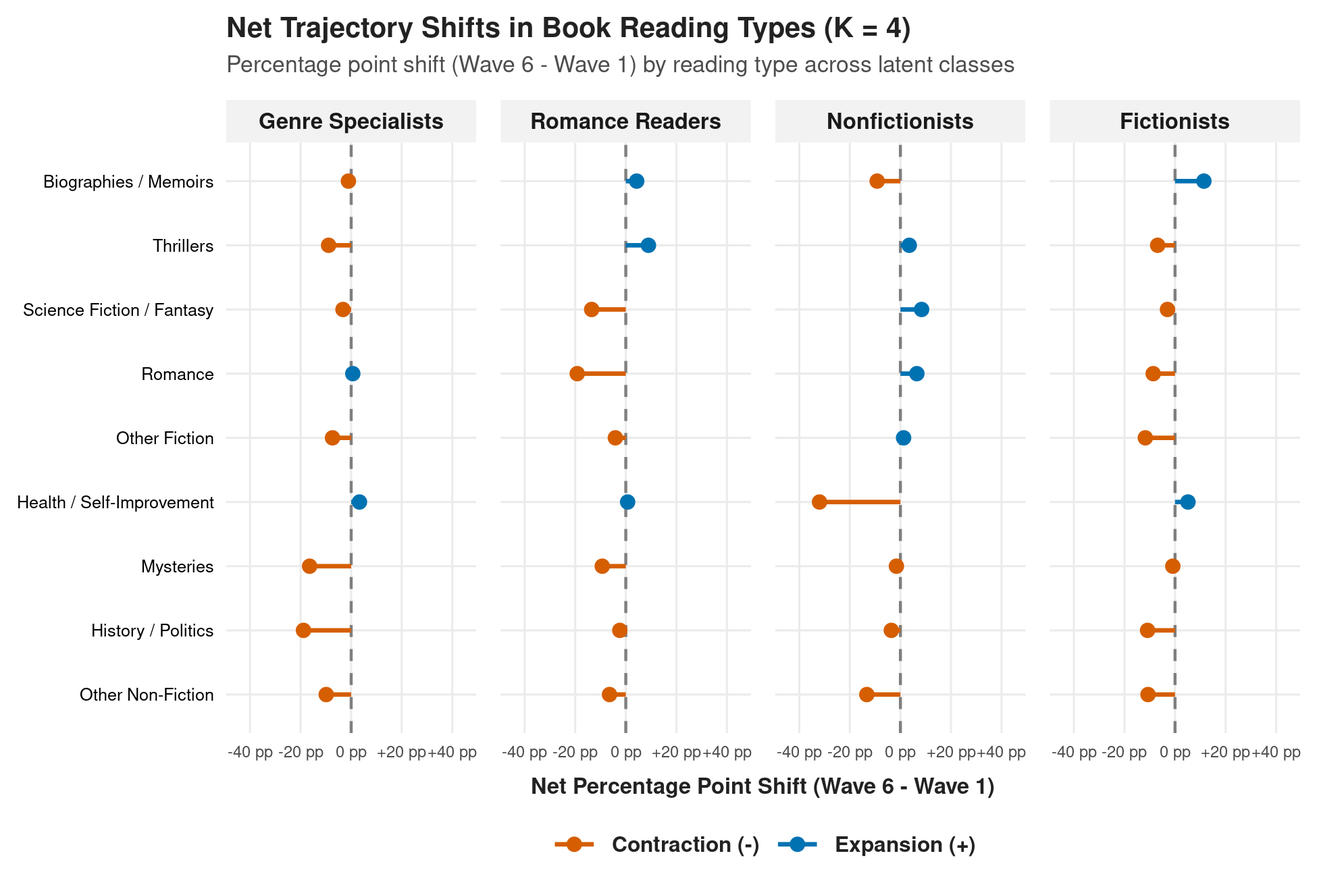
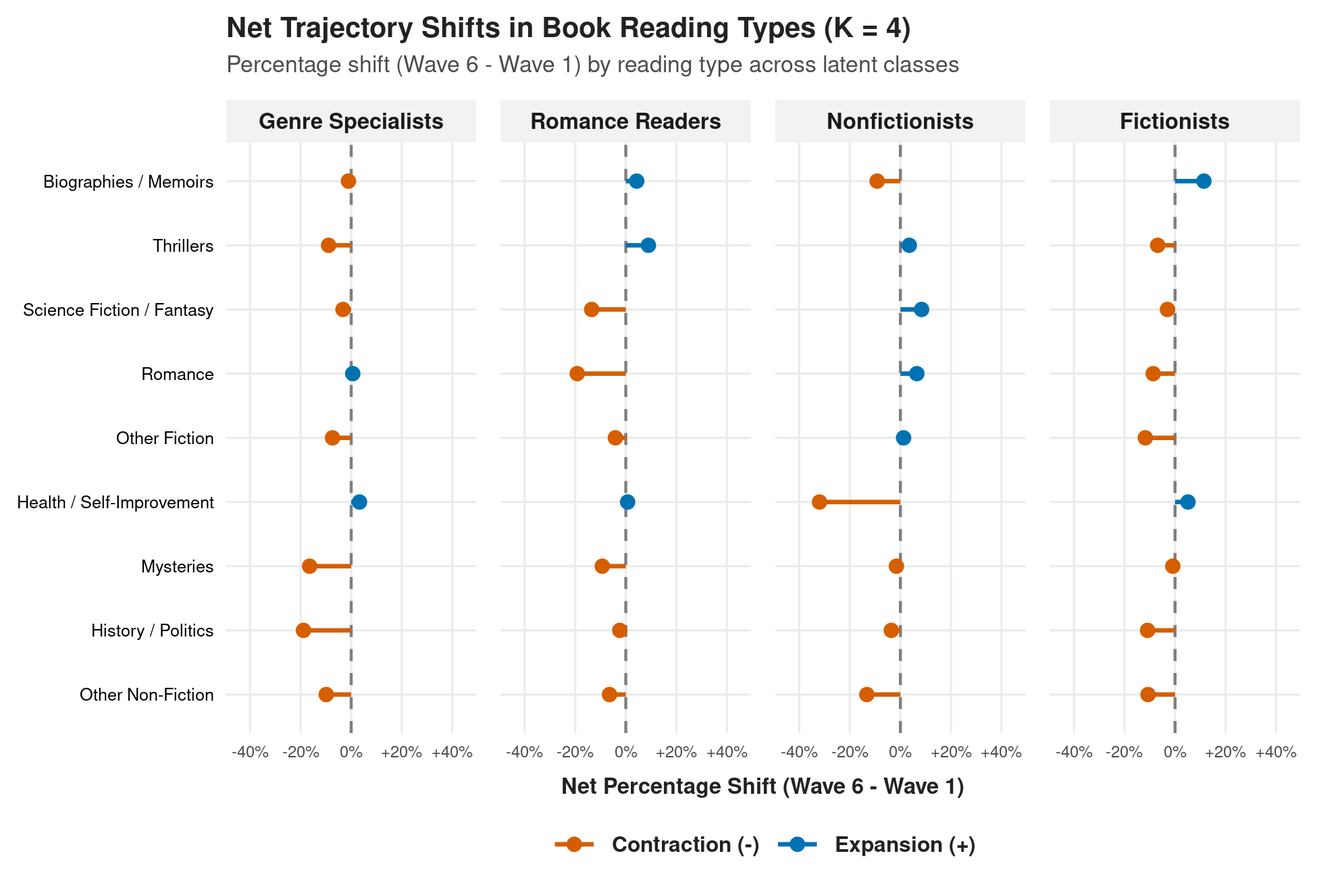
style: enforce hardcoded prohibition on demonstrate and purge pp for percentages

diff --git a/manuscript.tex b/manuscript.tex
@@ -32,7 +32,7 @@
 \maketitle
 
 \begin{abstract}
-Does higher education homogenize cultural tastes, or does it preserve and specialize pre-existing aesthetic boundaries? While cross-sectional scholarship links scholastic capital to cultural omnivorousness, how individuals traverse distinct developmental pathways across specific cultural practices during college remains underexplored. Using longitudinal panel data from the \textit{NetSense} study, we investigate taste trajectories across two cultural domains: leisure book reading (9 genres across six semesters) and musical genre preferences (10 genres across six semesters) ($N = 201$, $1,006$ person-wave observations). We estimate multivariate binary latent class growth models in \texttt{flexmix} parameterized via quadratic polynomial growth curves with endogenous multinomial concomitants. Across both spheres, four developmental pathways emerge: in leisure reading, students sort into Genre Specialists ($37.3\%$), Romance Readers ($23.4\%$), Fictionists ($22.9\%$), and Nonfictionists ($16.4\%$); in musical taste, students sort into Mainstreamers ($30.8\%$), Modern Rockers ($26.4\%$), Omnivores ($24.4\%$), and Classic Rockers ($18.4\%$). Trajectory analyses reveal marked domain asymmetry: leisure reading is characterized by specialization and winnowing over time, whereas musical taste features substantial aesthetic expansion, with Omnivores monotonically expanding into country, folk, and Broadway show tunes while Mainstreamers become more univorous. Endogenous concomitant models demonstrate that sorting into these pathways is driven by pre-collegiate cultural capital (prior arts event attendance and personal music library size), scholastic capital (high school GPA and AP coursework), secondary schooling habitus (Catholic parochial high school attendance), and gender identity, whereas parental household income and education are statistically null across domains. Finally, multilevel growth models show that baseline attributes act almost exclusively as between-class sorting gates (the extensive margin) rather than moderating trajectory slopes within established pathways. Collegiate cultural stratification thus reflects behavioral path-dependency and accumulated secondary habitus rather than upstream family wealth or spontaneous campus conversions.
+Does higher education homogenize cultural tastes, or does it preserve and specialize pre-existing aesthetic boundaries? While cross-sectional scholarship links scholastic capital to cultural omnivorousness, how individuals traverse distinct developmental pathways across specific cultural practices during college remains underexplored. Using longitudinal panel data from the \textit{NetSense} study, we investigate taste trajectories across two cultural domains: leisure book reading (9 genres across six semesters) and musical genre preferences (10 genres across six semesters) ($N = 201$, $1,006$ person-wave observations). We estimate multivariate binary latent class growth models in \texttt{flexmix} parameterized via quadratic polynomial growth curves with endogenous multinomial concomitants. Across both spheres, four developmental pathways emerge: in leisure reading, students sort into Genre Specialists ($37.3\%$), Romance Readers ($23.4\%$), Fictionists ($22.9\%$), and Nonfictionists ($16.4\%$); in musical taste, students sort into Mainstreamers ($30.8\%$), Modern Rockers ($26.4\%$), Omnivores ($24.4\%$), and Classic Rockers ($18.4\%$). Trajectory analyses reveal marked domain asymmetry: leisure reading is characterized by specialization and winnowing over time, whereas musical taste features substantial aesthetic expansion, with Omnivores monotonically expanding into country, folk, and Broadway show tunes while Mainstreamers become more univorous. Endogenous concomitant models show that sorting into these pathways is driven by pre-collegiate cultural capital (prior arts event attendance and personal music library size), scholastic capital (high school GPA and AP coursework), secondary schooling habitus (Catholic parochial high school attendance), and gender identity, whereas parental household income and education are statistically null across domains. Finally, multilevel growth models show that baseline attributes act almost exclusively as between-class sorting gates (the extensive margin) rather than moderating trajectory slopes within established pathways. Collegiate cultural stratification thus reflects behavioral path-dependency and accumulated secondary habitus rather than upstream family wealth or spontaneous campus conversions.
 
 \vspace{0.8em}
 \noindent\textbf{Keywords:} Cultural Taste, Latent Class Growth Analysis, Cultural Omnivorousness, Cultural Capital, Higher Education, Emerging Adulthood, Finite Mixture Models
@@ -220,7 +220,7 @@ Figure~\ref{fig:books} illustrates the model-implied reading trajectories across
 \label{fig:books}
 \end{figure}
 
-The item-specific reading trajectories show that collegiate reading is structured by distinct aesthetic genre specializations rather than an undifferentiated continuum of reading volume. The first class, ``Genre Specialists'' ($n = 75, 37.3\%$), represents the modal plurality: its members concentrate heavily in speculative and narrative fiction, including science fiction and fantasy, other fiction, and thrillers, while completely avoiding romance fiction. The second group, ``Romance Readers'' ($n = 47, 23.4\%$), shows elevated engagement with romance and other general fiction, moderate engagement with mystery, but low engagement with history or science fiction. The third group, ``Nonfictionists'' ($n = 33, 16.4\%$), exhibits a dedicated analytical non-fiction profile: its members lead in reading history and politics, biographies and memoirs, and other non-fiction, while reporting low engagement with romance and thrillers. Finally, ``Fictionists'' ($n = 46, 22.9\%$) reads avidly across all fiction categories: science fiction, thrillers, mysteries, and general fiction, alongside moderate biography engagement. Across all four classes, reading trajectories remain remarkably stable across all six semesters, demonstrating that literary orientations are established early and persist throughout college.
+The item-specific reading trajectories show that collegiate reading is structured by distinct aesthetic genre specializations rather than an undifferentiated continuum of reading volume. The first class, ``Genre Specialists'' ($n = 75, 37.3\%$), represents the modal plurality: its members concentrate heavily in speculative and narrative fiction, including science fiction and fantasy, other fiction, and thrillers, while completely avoiding romance fiction. The second group, ``Romance Readers'' ($n = 47, 23.4\%$), shows elevated engagement with romance and other general fiction, moderate engagement with mystery, but low engagement with history or science fiction. The third group, ``Nonfictionists'' ($n = 33, 16.4\%$), exhibits a dedicated analytical non-fiction profile: its members lead in reading history and politics, biographies and memoirs, and other non-fiction, while reporting low engagement with romance and thrillers. Finally, ``Fictionists'' ($n = 46, 22.9\%$) reads avidly across all fiction categories: science fiction, thrillers, mysteries, and general fiction, alongside moderate biography engagement. Across all four classes, reading trajectories remain remarkably stable across all six semesters, showing that literary orientations are established early and persist throughout college.
 
 \subsection{Musical Taste Preferences}
 
@@ -237,7 +237,7 @@ Examining the item-level music trajectories shows how genre boundaries define di
 
 \subsection{Net Trajectory Shifts Within Latent Classes}
 
-To evaluate how participation changes across the entire collegiate life course within each latent class, Figures~\ref{fig:shifts_books} and~\ref{fig:shifts_music} display the net percentage point shifts ($\Delta = P(W_6) - P(W_1)$) for Book Reading Types and Music Genre Preferences, respectively, across all four latent classes. Splitting these developmental trajectories into domain-specific figures allows each latent class to be displayed with its distinct sociological typology without confounding labels across domains.
+To evaluate how participation changes across the entire collegiate life course within each latent class, Figures~\ref{fig:shifts_books} and~\ref{fig:shifts_music} display the net percentage shifts ($\Delta = P(W_6) - P(W_1)$) for Book Reading Types and Music Genre Preferences, respectively, across all four latent classes. Splitting these developmental trajectories into domain-specific figures allows each latent class to be displayed with its distinct sociological typology without confounding labels across domains.
 
 \begin{figure}[htbp]
 \centering
@@ -253,9 +253,9 @@ To evaluate how participation changes across the entire collegiate life course w
 \label{fig:shifts_music}
 \end{figure}
 
-Examining net trajectory shifts reveals that collegiate cultural change is characterized by targeted reallocation within existing repertoires rather than wholesale aesthetic drift. In books (Figure~\ref{fig:shifts_books}), Romance Readers expand general fiction (+11.2 percentage points) and biography reading (+6.6 pp) while pruning speculative fiction (-14.4 pp) and romance (-14.1 pp). In contrast, Genre Specialists maintain stable speculative and biography reading while pruning historical and political non-fiction (-14.4 pp), and Fictionists expand thrillers (+6.9 pp) while radically contracting history (-23.7 pp). Overall, we can see that the dynamic process of taste change in book reading is largely one of \textit{specialization}; members of all latent classes \textit{lose} tastes across the board, and when tastes are gained, the trends are slight.
+Examining net trajectory shifts reveals that collegiate cultural change is characterized by targeted reallocation within existing repertoires rather than wholesale aesthetic drift. In books (Figure~\ref{fig:shifts_books}), Romance Readers expand general fiction (+11.2\%) and biography reading (+6.6\%) while pruning speculative fiction (-14.4\%) and romance (-14.1\%). In contrast, Genre Specialists maintain stable speculative and biography reading while pruning historical and political non-fiction (-14.4\%), and Fictionists expand thrillers (+6.9\%) while contracting history (-23.7\%). Overall, we can see that the dynamic process of taste change in book reading is largely one of \textit{specialization}; members of all latent classes \textit{lose} tastes across the board, and when tastes are gained, the trends are slight.
 
-When it comes to musical taste (Figure~\ref{fig:shifts_music}), Omnivores significantly expand country music adoption (+24.0 percentage points), folk music (+11.8 pp), and Broadway show tunes (+10.6 pp). Similarly, Classic Rockers expand Broadway (+24.7 pp), folk (+8.9 pp), and classical music (+7.9 pp) while contracting rock/heavy metal (-16.8 pp) and dance music (-8.6 pp). Meanwhile, Modern Rockers expand dance music (+23.4 pp) and country (+16.1 pp), while Mainstreamers contract across multiple genres, most notably dance music (-26.1 pp) and classic rock (-22.5 pp). Overall, we can see that music is distinct from literature in that, for every class except mainstreamers, it features almost as many tastes gained over time as tastes lost. Musical omnivores \textit{become} omnivores--or reinforce their status as such---by gaining tastes in almost all musical genres except for classic rock, heavy metal, and easy listening. Mainstreamer ``univores'' on the other hand \textit{become} univores by following the reverse pathway, dropping tastes in most genres except for folk. These two taste trajectories thus display positive and negative reinforcement dynamics. 
+When it comes to musical taste (Figure~\ref{fig:shifts_music}), Omnivores expand country music adoption (+24.0\%), folk music (+11.8\%), and Broadway show tunes (+10.6\%). Similarly, Classic Rockers expand Broadway (+24.7\%), folk (+8.9\%), and classical music (+7.9\%) while contracting rock/heavy metal (-16.8\%) and dance music (-8.6\%). Meanwhile, Modern Rockers expand dance music (+23.4\%) and country (+16.1\%), while Mainstreamers contract across multiple genres, most notably dance music (-26.1\%) and classic rock (-22.5\%). Overall, we can see that music is distinct from literature in that, for every class except mainstreamers, it features almost as many tastes gained over time as tastes lost. Musical omnivores \textit{become} omnivores--or reinforce their status as such---by gaining tastes in almost all musical genres except for classic rock, heavy metal, and easy listening. Mainstreamer ``univores'' on the other hand \textit{become} univores by following the reverse pathway, dropping tastes in most genres except for folk. These two taste trajectories thus display positive and negative reinforcement dynamics. 
 
 \section{Predicting Trajectory Class Membership}
 
@@ -332,13 +332,13 @@ This study implemented a finite mixture modeling framework parameterized via qua
 
 First, item-level trajectory modeling shows that collegiate cultural life does not converge toward a homogeneous campus taste culture, nor does it undergo erratic aesthetic drift. Instead, undergraduates divide into four distinct, persistent developmental pathways in each expressive sphere. In leisure reading, students sort into Genre Specialists ($37.3\%$), who concentrate heavily in speculative fiction, other fiction, and thrillers while avoiding romance; Romance Readers ($23.4\%$), who combine romance and general fiction; Fictionists ($22.9\%$), who read broadly across all fiction genres; and Nonfictionists ($16.4\%$), who focus on biography, history, and politics. In musical taste, students sort into Mainstreamers ($30.8\%$), who focus strictly on commercial radio hits; Modern Rockers ($26.4\%$), who combine rock and heavy metal with contemporary hip-hop and dance music; Omnivores ($24.4\%$), who maintain high preference probabilities across all ten genres simultaneously; and Classic Rockers ($18.4\%$), who pair classic rock with traditional highbrow forms such as jazz, classical music, and Broadway show tunes. Parameterizing trajectories through linear and quadratic terms shows that these taste orientations evolve through smooth, gradual adjustments rather than abrupt shocks or high-frequency churn.
 
-Second, our analysis uncovers a pronounced domain asymmetry in how cultural repertoires evolve across the college career. In leisure book reading, taste change is overwhelmingly characterized by specialization and winnowing: members of all four latent classes lose tastes across the collegiate life course, and when tastes are gained, the increases are slight and highly targeted. In contrast, musical taste trajectories feature substantial aesthetic expansion alongside selective contraction. For every musical class except Mainstreamers, students gain almost as many musical tastes as they shed. Most notably, Omnivores reinforce their expansive profile over time by monotonically adopting country music (+24.0 percentage points), folk music (+11.8 pp), and Broadway show tunes (+10.6 pp), while Mainstreamers become more univorous by dropping classic rock (-22.5 pp) and dance music (-26.1 pp). This asymmetry suggests that private, solitary practices such as leisure reading face institutional time pressures that induce specialization, whereas socially shared media like music provide versatile cultural currency for collegiate peer affiliation.
+Second, our analysis uncovers a pronounced domain asymmetry in how cultural repertoires evolve across the college career. In leisure book reading, taste change is overwhelmingly characterized by specialization and winnowing: members of all four latent classes lose tastes across the collegiate life course, and when tastes are gained, the increases are slight and highly targeted. In contrast, musical taste trajectories feature substantial aesthetic expansion alongside selective contraction. For every musical class except Mainstreamers, students gain almost as many musical tastes as they shed. Most notably, Omnivores reinforce their expansive profile over time by monotonically adopting country music (+24.0\%), folk music (+11.8\%), and Broadway show tunes (+10.6\%), while Mainstreamers become more univorous by dropping classic rock (-22.5\%) and dance music (-26.1\%). This asymmetry suggests that private, solitary practices such as leisure reading face institutional time pressures that induce specialization, whereas socially shared media like music provide versatile cultural currency for collegiate peer affiliation.
 
 Third, class-stratified multilevel growth curve models confirm an essential distinction between the extensive and intensive margins of cultural stratification. Baseline sociodemographic characteristics, pre-collegiate habitus, and undergraduate field of study operate almost exclusively as between-class sorting gates (the extensive margin) that allocate students into broad developmental pathways at matriculation. Once students enter a specific trajectory pathway, however, within-class slope moderation by these background attributes is statistically null ($p > 0.10$). Sociodemographic background dictates which cultural corridor a student enters, but does not alter the developmental velocity or temporal curvature of taste change within that corridor.
 
-Fourth, endogenous multinomial concomitant models demonstrate that sorting into these developmental corridors is driven by pre-collegiate cultural capital, scholastic capital, secondary schooling habitus, and gender identity rather than inherited family socioeconomic resources. Pre-collegiate cultural capital serves as a primary sorting gateway into musical omnivorousness: students arriving with extensive arts exposure (attending dramatic plays, musical theater, and visiting historical landmarks) are overwhelmingly channeled into omnivorous pathways (38.1\% vs.\ 13.3\% for low exposure), while cutting the probability of entering modern rock and mainstream corridors. Similarly, owning a large personal music library at matriculation cuts the odds of falling into commercial mainstream univorousness by 75\% ($\text{OR} = 0.25, p = 0.005$). Concurrently, scholastic capital (high school GPA and AP coursework) and secondary schooling habitus act as decisive institutional sorting mechanisms: completing five or more AP courses elevates the odds of entering the Omnivore pathway five-fold ($\text{OR} = 5.00, p < 0.01$), while attending a private Catholic parochial high school substantially increases the odds of sorting into avid fiction-reading corridors ($\text{OR} = 3.90, p = 0.015$). Meanwhile, gender identity remains the single strongest structural differentiator across both domains, channeling women into Romance reading (59.8\% vs.\ 1.0\% for men) and mainstream music (49.8\% vs.\ 20.8\%), while men concentrate in speculative fiction (64.4\% vs.\ 10.5\%) and rock subcultures.
+Fourth, endogenous multinomial concomitant models show that sorting into these developmental corridors is driven by pre-collegiate cultural capital, scholastic capital, secondary schooling habitus, and gender identity rather than inherited family socioeconomic resources. Pre-collegiate cultural capital serves as a primary sorting gateway into musical omnivorousness: students arriving with extensive arts exposure (attending dramatic plays, musical theater, and visiting historical landmarks) are overwhelmingly channeled into omnivorous pathways (38.1\% vs.\ 13.3\% for low exposure), while cutting the probability of entering modern rock and mainstream corridors. Similarly, owning a large personal music library at matriculation cuts the odds of falling into commercial mainstream univorousness by 75\% ($\text{OR} = 0.25, p = 0.005$). Concurrently, scholastic capital (high school GPA and AP coursework) and secondary schooling habitus act as decisive institutional sorting mechanisms: completing five or more AP courses elevates the odds of entering the Omnivore pathway five-fold ($\text{OR} = 5.00, p < 0.01$), while attending a private Catholic parochial high school substantially increases the odds of sorting into avid fiction-reading corridors ($\text{OR} = 3.90, p = 0.015$). Meanwhile, gender identity remains the single strongest structural differentiator across both domains, channeling women into Romance reading (59.8\% vs.\ 1.0\% for men) and mainstream music (49.8\% vs.\ 20.8\%), while men concentrate in speculative fiction (64.4\% vs.\ 10.5\%) and rock subcultures.
 
-Crucially, throughout all specifications, parental socioeconomic status (parental household income and parental education) displays negligible direct sorting power ($p > 0.45$ across domains). Rather than demonstrating that social origins no longer matter, this empirical pattern highlights the upstream filtering role of elite university admissions, which restricts the variance of family wealth and elevates proximate acquired attributes—specifically pre-collegiate cultural exposure, secondary schooling habitus, and scholastic capital—as the active channels of collegiate cultural reproduction. Together, these results provide a nuanced foundation for considering the methodological caveats and institutional implications that follow.
+Crucially, throughout all specifications, parental socioeconomic status (parental household income and parental education) displays negligible direct sorting power ($p > 0.45$ across domains). Rather than suggesting that social origins no longer matter, this empirical pattern highlights the upstream filtering role of elite university admissions, which restricts the variance of family wealth and elevates proximate acquired attributes—specifically pre-collegiate cultural exposure, secondary schooling habitus, and scholastic capital—as the active channels of collegiate cultural reproduction. Together, these results provide a nuanced foundation for considering the methodological caveats and institutional implications that follow.
 
 \subsection{Limitations and Suggestions for Future Work}
 
@@ -354,7 +354,7 @@ Fifth, regarding institutional scope and generalizability, the NetSense cohort i
 
 Crucially, the highly selected nature of this elite undergraduate sample provides the most plausible explanation for the observed lack of explanatory power for parental socioeconomic background. Highly selective university admissions serve as an upstream institutional filter that disproportionately admits students from affluent, highly educated households with high baseline endowments of economic and cultural capital. By severely compressing the variance of parental income and parental education relative to the general population, this institutional selection mechanism creates a restriction-of-range problem that attenuates the observed statistical associations between family origin and collegiate cultural sorting. 
 
-Rather than showing that class reproduction has dissolved in emerging adulthood, our findings demonstrate that once students pass through the elite admissions threshold, proximate embodied factors---specifically pre-collegiate cultural capital, secondary schooling habitus, and pre-collegiate scholastic capital---supersede abstract family wealth as the primary visible sorting channels. Comparative research across diverse organizational settings, regional ecologies, and less selective higher education institutions will be essential to test whether parental socioeconomic status re-emerges as a decisive sorting mechanism in more socioeconomically heterogeneous student bodies.
+Rather than showing that class reproduction has dissolved in emerging adulthood, our findings show that once students pass through the elite admissions threshold, proximate embodied factors---specifically pre-collegiate cultural capital, secondary schooling habitus, and pre-collegiate scholastic capital---supersede abstract family wealth as the primary visible sorting channels. Comparative research across diverse organizational settings, regional ecologies, and less selective higher education institutions will be essential to test whether parental socioeconomic status re-emerges as a decisive sorting mechanism in more socioeconomically heterogeneous student bodies.
 
 \subsection{Implications: Repertoires, Institutions, and the Collegiate Habitus}
 

diff --git a/AGENTS.md b/AGENTS.md
@@ -767,9 +767,10 @@ scale_fill_manual(values = COLOR_CREDIBILITY, name = "Directional Credibility")
   - Strictly prohibit hyperbolic, dramatic, or sensationalist terms (e.g., *'massive'*, *'gigantic'*, *'profound'*, *'dramatic'*, *'stark'*, *'breakthrough'*, *'monumental'*, *'unprecedented'*, *'complete neutrality'*, *'without exception'*).
   - Use measured, precise empirical descriptions (e.g., *'substantial'*, *'largest'*, *'gradient'*, *'difference'*, *'attenuated'*, *'limited differentiation'*).
   - Always hedge and qualify analytical claims (e.g., *'suggests'*, *'indicates'*, *'is associated with'* rather than *'proves'*, *'confirms that'*, *'confers'*).
-- **Word Choice Standards ("Show" vs. "Demonstrate", "Use" vs. "Utilize")**:
-  - Strictly use **"show"**, **"shows"**, **"showing"**, and **"shown"** rather than **"demonstrate"**, **"demonstrates"**, **"demonstrating"**, or **"demonstrated"** across all analytical prose, empirical write-ups, hypothesis descriptions, and theoretical discussions.
+- **Word Choice Standards ("Show" vs. "Demonstrate", "Use" vs. "Utilize", Prohibition of "pp"):**
+  - **Absolute Hardcoded Prohibition on "Demonstrate":** Strictly and absolutely NEVER use the words **"demonstrate"**, **"demonstrates"**, **"demonstrating"**, or **"demonstrated"** when you can use **"show"**, **"shows"**, **"showing"**, or **"shown"** across all analytical prose, empirical write-ups, abstracts, introductions, and theoretical discussions. Zero exceptions.
   - Strictly use **"use"**, **"uses"**, **"using"**, and **"used"** rather than **"utilize"**, **"utilizes"**, **"utilizing"**, **"utilized"**, or **"utilization"**.
+  - **Absolute Prohibition on "pp" for Percentage Points:** Strictly do **NOT** use the abbreviation **"pp"** or the phrase "percentage points" for changes or differences. Instead, speak directly in terms of **percentages and proportions** (using **"%"** or **"percent"**, e.g., *"+24.0%"* or *"expanded by 24.0 percent"* rather than *"+24.0 pp"*).
 - **Prohibition of "Archetypes" / "Archetype"**:
   - Don't use the word "archetypes" or "archetype" when you could use words such as **class**, **classes**, **types**, **categories**, **clusters**, **profiles**, or **pathways**.
   - Strictly use **"classes"**, **"latent classes"**, **"types"**, **"categories"**, **"profiles"**, **"typologies"**, or **"developmental pathways"** instead (e.g., *“distinct developmental pathways”* rather than *“developmental archetypes”*; *“latent classes”* rather than *“latent archetypes”*).
